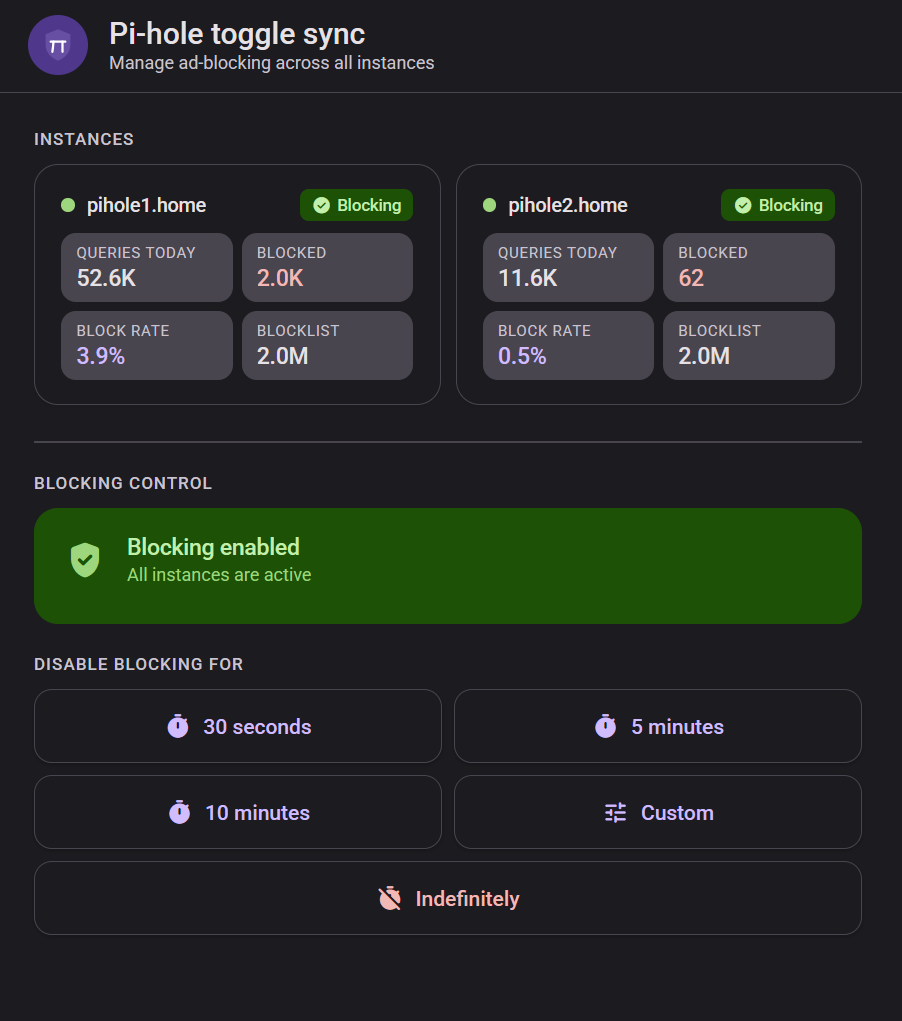
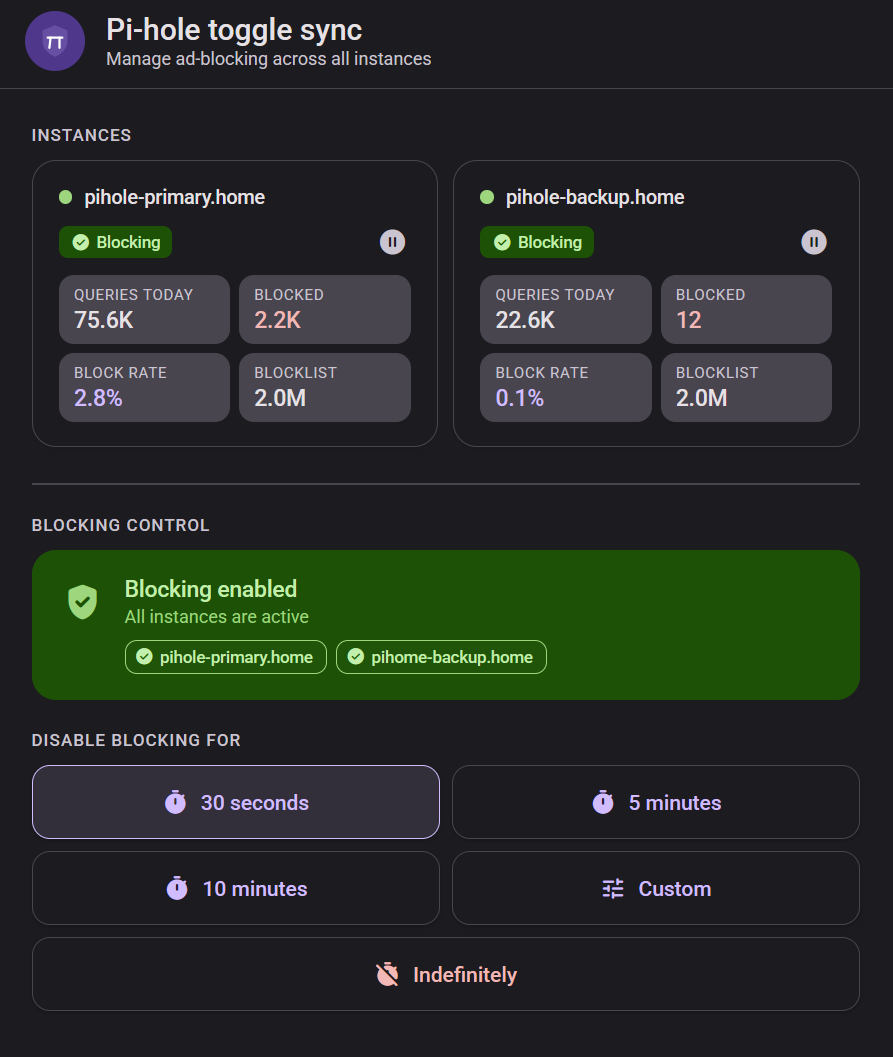
docs: add screenshot of disabled blocking state

diff --git a/README.md b/README.md
@@ -6,7 +6,7 @@ A lightweight web UI for toggling ad-blocking on one or more [Pi-hole](https://p
 ![Pi-hole](https://img.shields.io/badge/Pi--hole-v6%2B-red)
 ![Build](https://github.com/bartekmp/pihole-toggle-sync/actions/workflows/publish.yml/badge.svg)
 
-![Pi-hole Toggle Sync screenshot](pts.png)
+![Pi-hole Toggle Sync screenshot](pts.png) ![Pi-hole Toggle Sync — blocking disabled](pts-disabled.png)
 
 ---
 
